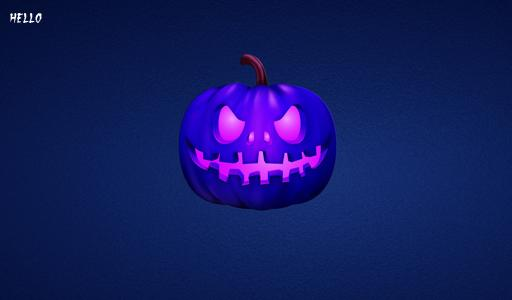
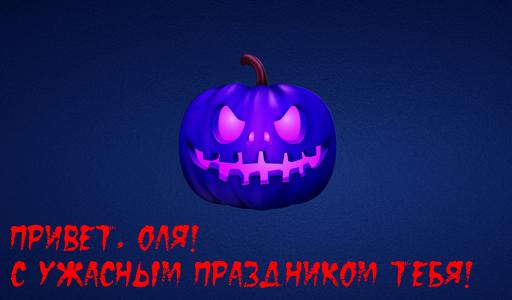
Исправлены пути исходя из venv

Changed region(s): [[0.0, 0.72, 0.9375, 0.96], [0.0, 0.03, 0.0938, 0.09]]

diff --git a/lesson_013/python_snippets/05_lib_usage.py b/lesson_013/python_snippets/05_lib_usage.py
@@ -7,14 +7,15 @@
 import os
 from PIL import Image, ImageDraw, ImageFont, ImageColor
 
+path = os.path.join('lesson_013','python_snippets')
 
 class PostCardMaker:
 
     def __init__(self, name, template=None, font_path=None):
         self.name = name
-        self.template = "post_card.jpg" if template is None else template
+        self.template = os.path.join(path,"post_card.jpg") if template is None else template
         if font_path is None:
-            self.font_path = os.path.join("fonts", "ofont_ru_DS Eraser2.ttf")
+            self.font_path = os.path.join(path, "fonts", "ofont_ru_DS Eraser2.ttf")
         else:
             self.font_path = font_path
 
@@ -36,10 +37,11 @@ class PostCardMaker:
 
         # im.show()
         out_path = out_path if out_path else 'probe.jpg'
-        im.save(out_path)
+        im.save(os.path.join(path, out_path))
         print(f'Post card saved az {out_path}')
 
 
 if __name__ == '__main__':
     maker = PostCardMaker(name='Оля')
     maker.make(resize=True)
+

diff --git a/lesson_013/python_snippets/05_PIL_sample.py b/lesson_013/python_snippets/05_PIL_sample.py
@@ -19,5 +19,5 @@ y = resized_im.size[1]//2 + 50
 
 draw.text((x, y), 'Привет!', font=font, fill="#ff0000")
 
-resized_im.show()
-# resized_im.save(os.path.join(path,'probe.jpg'))
+# resized_im.show()
+resized_im.save(os.path.join(path,'probe.jpg'))
